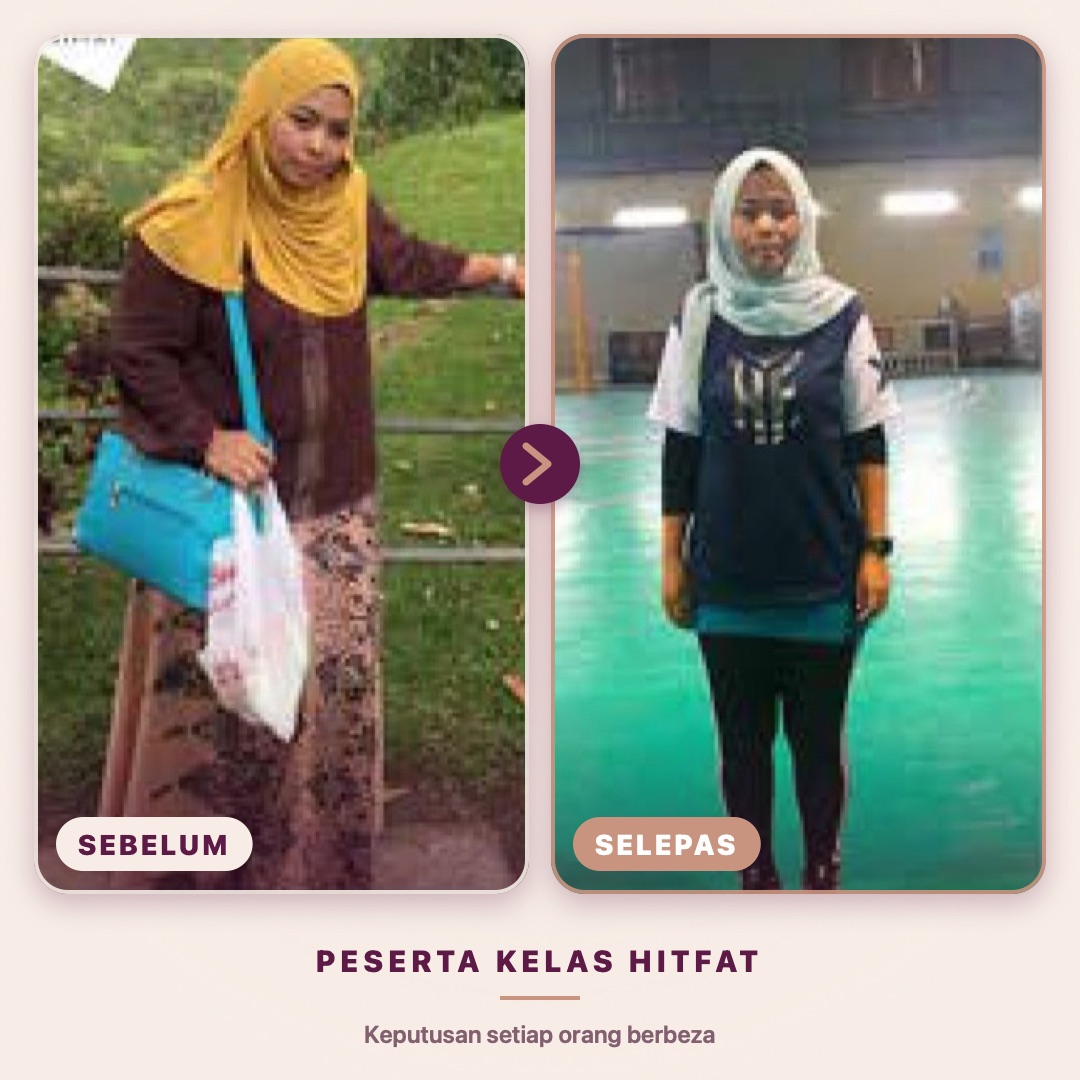
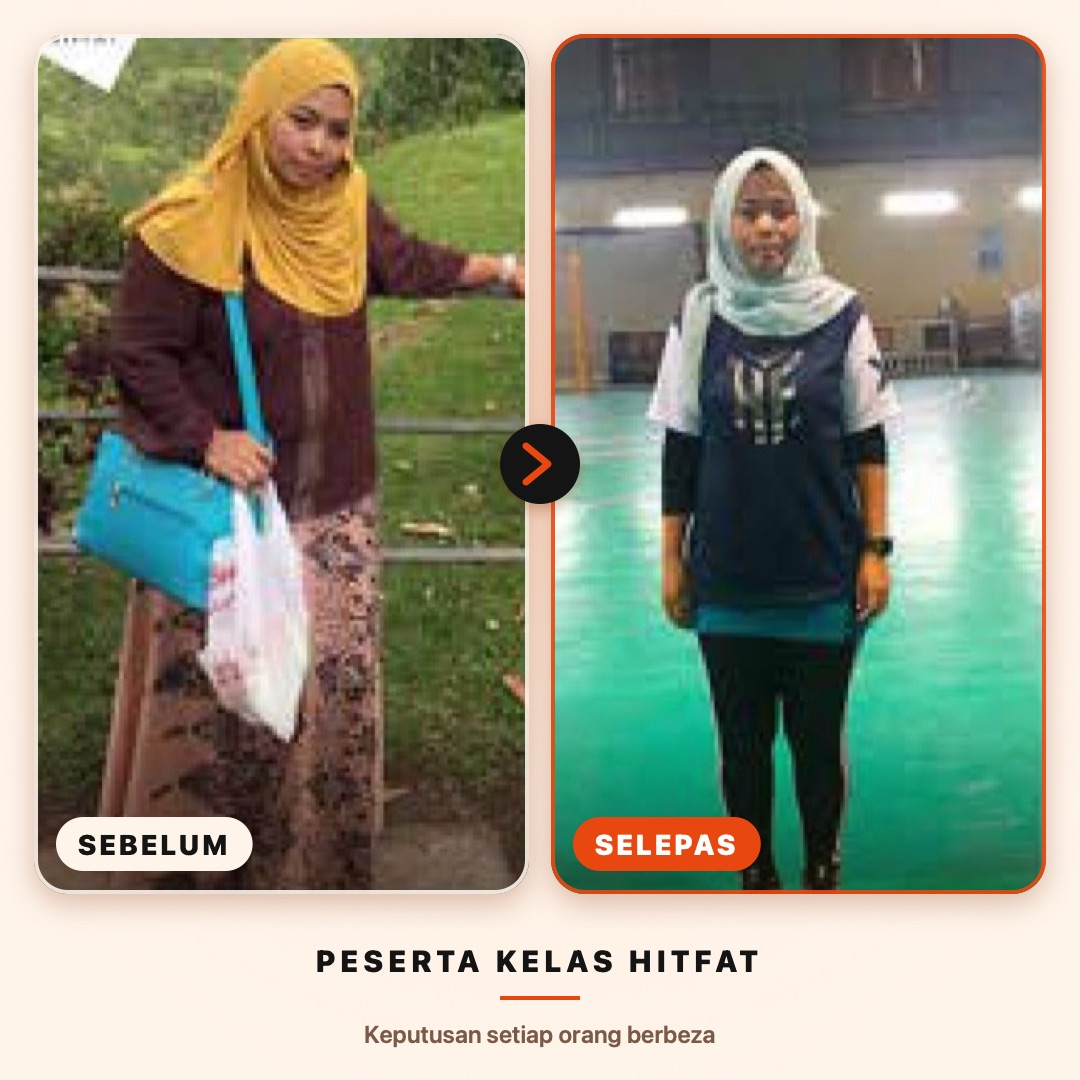
THE START's landing page shows men's results beside the women's: six before/afters and six quotes from Seth's old HITFAT posters, every card in THE START's colours, the same words as the app, and its new features (Seth, 11 Nov: "masukkan testimoni lelaki aku pernah share sebelum ni. wanita tu kekalk

Changed region(s): [[0.275, 0.0611, 0.9472, 0.9778], [0.5194, 0.0306, 0.9778, 0.825], [0.0611, 0.7639, 0.2139, 0.7944]]

diff --git a/start/index.html b/start/index.html
@@ -26,7 +26,7 @@
 
   Honest as MAK2FIT's page is: the numbers are the program's own; the
   reviews are real HITFAT class members, labelled as class members and not
-  THE START users (MAK2FIT's set for now; Seth will send men's); no coach is
+  THE START users (men from Seth's old HITFAT posters, 11 Nov 2026, and MAK2FIT's women); no coach is
   included and the page says so; purchases are final. The phones are the
   app's real screens, the training calendar and the video preview are the
   program's own sessions (Asas path) and clips.
@@ -880,7 +880,7 @@ body{background:var(--bg)}
   <span class="pill">Dibangunkan oleh HITFAT</span>
   <h2 class="sec-h">Dari <span class="grad">gym sebenar.</span></h2>
   <div class="tx-hd"><h3>Peserta sebenar, kelas HITFAT</h3><span>Swipe →</span></div>
-  <div class="tx-row tx-ba"><figure class="tx-c"><div class="tx-im" data-bg="img/testi/ba-hafifah.jpg"></div><figcaption><b>−21 kg</b><span>116 → 95 kg</span><small>Hafifah · Peserta HITFAT</small></figcaption></figure><figure class="tx-c"><div class="tx-im" data-bg="img/testi/ba-31d5.jpg"></div><figcaption><b>−5.4 kg</b><span>75.4 → 70 kg dalam 31 hari</span><small>31 Days Challenge</small></figcaption></figure><figure class="tx-c"><div class="tx-im" data-bg="img/testi/ba-aniza.jpg"></div><figcaption><b>−4.6 kg</b><span>6.6% dalam sebulan</span><small>Aniza · HITFAT Challenge</small></figcaption></figure></div>
+  <div class="tx-row tx-ba"><figure class="tx-c"><div class="tx-im" data-bg="img/testi/ba-m-107.jpg"></div><figcaption><b>−23.5 kg</b><span>107.5 → 84 kg</span><small>Peserta HITFAT</small></figcaption></figure><figure class="tx-c"><div class="tx-im" data-bg="img/testi/ba-hafifah.jpg"></div><figcaption><b>−21 kg</b><span>116 → 95 kg</span><small>Hafifah · Peserta HITFAT</small></figcaption></figure><figure class="tx-c"><div class="tx-im" data-bg="img/testi/ba-m-pdrm12.jpg"></div><figcaption><b>−12 kg</b><span>84 → 72 kg</span><small>HITFAT PDRM · Ogos–Sept 2019</small></figcaption></figure><figure class="tx-c"><div class="tx-im" data-bg="img/testi/ba-31d5.jpg"></div><figcaption><b>−5.4 kg</b><span>75.4 → 70 kg dalam 31 hari</span><small>31 Days Challenge · tempat ke-5</small></figcaption></figure><figure class="tx-c"><div class="tx-im" data-bg="img/testi/ba-m-kb.jpg"></div><figcaption><b>−8.8 kg</b><span>97.6 → 88.8 kg</span><small>HITFATX Kota Bharu</small></figcaption></figure></div>
   <p class="fine">Peserta kelas HITFAT, bukan pengguna THE START. Keputusan setiap orang berbeza. <a href="#testi">Lihat semua testimoni ↓</a></p>
   <div class="laurels l2">
     <div class="lau"><svg viewBox="0 0 34 72" aria-hidden="true"><use href="#laurel"/></svg><div>Sejak 2015<em>Program weight loss</em></div><svg class="r" viewBox="0 0 34 72" aria-hidden="true"><use href="#laurel"/></svg></div>
@@ -923,13 +923,16 @@ body{background:var(--bg)}
 <section class="box c reveal" id="dapat">
   <span class="pill">Apa anda dapat</span>
   <h2 class="sec-h">Satu program. <span class="grad">Semua yang anda perlu.</span></h2>
-  <p class="sec-p">THE START ialah program 6 minggu untuk yang baru mula: latihan berpandu, langkah harian dan ilmu asas, dibina ikut jawapan anda dan diikuti dalam app HITFAT+.</p>
+  <p class="sec-p">THE START ialah program 6 minggu untuk yang baru mula: latihan berpandu, langkah harian, tabiat makan dan ilmu asas, dibina ikut jawapan anda dan diikuti dalam app HITFAT+.</p>
   <div class="get">
     <div class="gi"><i><svg class="ic" aria-hidden="true"><use href="#i-dumb"/></svg></i><p><b>Program latihan 6 minggu</b><span>18 sesi, 3 seminggu, 15 hingga 25 minit. Satu perubahan sahaja setiap minggu.</span></p></div>
     <div class="gi"><i><svg class="ic" aria-hidden="true"><use href="#i-play"/></svg></i><p><b>Video setiap gerakan</b><span>Rakaman coach HITFAT, dengan pemasa, rehat automatik dan isyarat teknik.</span></p></div>
-    <div class="gi"><i><svg class="ic" aria-hidden="true"><use href="#i-check"/></svg></i><p><b>Laluan ikut anda</b><span>Mudah, Asas atau Beransur. Gerakan ditukar jika lutut, bahu atau pinggang tak selesa.</span></p></div>
+    <div class="gi"><i><svg class="ic" aria-hidden="true"><use href="#i-check"/></svg></i><p><b>Tahap ikut anda</b><span>Mudah, Asas atau Beransur. Gerakan ditukar jika lutut, bahu atau pinggang tak selesa.</span></p></div>
     <div class="gi"><i><svg class="ic" aria-hidden="true"><use href="#i-sun"/></svg></i><p><b>Sasaran langkah harian</b><span>Bermula dari tahap anda, naik 1,000 langkah seminggu sampai 7,000.</span></p></div>
     <div class="gi"><i><svg class="ic" aria-hidden="true"><use href="#i-tape"/></svg></i><p><b>Sesi rekod 1 &amp; 18</b><span>Kira duduk-bangun dan tolak dalam 30 saat. Nampak sendiri sejauh mana anda pergi.</span></p></div>
+    <div class="gi bonus"><em>BAHARU</em><i><svg class="ic" aria-hidden="true"><use href="#i-check"/></svg></i><p><b>Semak Teknik AI</b><span>Letak telefon, buat 5 rep. Kamera semak squat dan push up anda, dan Coach Seth beritahu apa nak dibetulkan.</span></p></div>
+    <div class="gi bonus"><em>BAHARU</em><i><svg class="ic" aria-hidden="true"><use href="#i-bowl"/></svg></i><p><b>Satu tabiat makan seminggu</b><span>Idea menu Malaysia setiap hari, pinggan sihat dan sukatan tangan. Tak perlu kira kalori, nasi tetap ada.</span></p></div>
+    <div class="gi bonus"><em>BAHARU</em><i><svg class="ic" aria-hidden="true"><use href="#i-timer"/></svg></i><p><b>Peringatan hari latihan</b><span>Pukul 9 pagi pada hari yang anda pilih: sesi hari ini, berapa minit. Supaya tak terlupa.</span></p></div>
     <div class="gi bonus"><em>BONUS</em><i><svg class="ic" aria-hidden="true"><use href="#i-book"/></svg></i><p><b>Belajar</b><span>Kad teknik setiap corak gerakan, dan 18 pelajaran ringkas tentang latihan dan makan.</span></p></div>
     <div class="gi bonus"><em>BONUS</em><i><svg class="ic" aria-hidden="true"><use href="#i-scan"/></svg></i><p><b>20 scan makanan AI</b><span>Snap pinggan, dapat kalori dan makro dalam beberapa saat.</span></p></div>
     <div class="gi bonus"><em>BONUS</em><i><svg class="ic" aria-hidden="true"><use href="#i-chat"/></svg></i><p><b>BM atau English</b><span>Tukar bahasa program dengan satu tekan.</span></p></div>
@@ -942,7 +945,7 @@ body{background:var(--bg)}
 <section class="box c reveal">
   <span class="pill">Pelan peribadi</span>
   <h2 class="sec-h">Bukan pelan <span class="grad">sama untuk semua.</span></h2>
-  <p class="sec-p">Ada yang tak pernah bersenam, ada yang lutut sakit, ada yang cuma ada 15 minit. Sebab itu laluan dan gerakan anda ikut jawapan anda.</p>
+  <p class="sec-p">Ada yang tak pernah bersenam, ada yang lutut sakit, ada yang cuma ada 15 minit. Sebab itu tahap dan gerakan anda ikut jawapan anda.</p>
   <div class="steps3">
     <div><i>1</i><b>Daftar &amp; bayar</b><span>RM49, sekali sahaja</span></div>
     <div><i>2</i><b>Jawab 9 soalan</b><span>Dalam app, 2 minit</span></div>
@@ -950,7 +953,7 @@ body{background:var(--bg)}
   </div>
   <details class="more"><summary>Lihat apa yang disesuaikan untuk anda</summary>
   <div class="pl2">
-    <div><h3>Laluan anda ikut…</h3><ul>
+    <div><h3>Tahap anda ikut…</h3><ul>
       <li>Kenapa anda mula, dan seberapa aktif anda sekarang</li>
       <li>Pengalaman bersenam: tak pernah, dah lama berhenti, atau pernah ikut program</li>
       <li>Masa anda: 15, 20 atau 25 minit setiap sesi</li>
@@ -959,7 +962,7 @@ body{background:var(--bg)}
       <li>Lutut, bahu atau pinggang yang kurang selesa: gerakannya ditukar</li>
       <li>Sukar turun ke lantai: versi duduk atau berdiri</li>
       <li>Apa yang ada di rumah: kerusi, tuala, botol air</li>
-      <li>Saringan kesihatan: jika ada tanda risiko, laluan kekal Mudah dan app minta anda jumpa doktor dahulu</li></ul></div>
+      <li>Saringan kesihatan: jika ada tanda risiko, tahap kekal Mudah dan app minta anda jumpa doktor dahulu</li></ul></div>
   </div>
   </details>
   <p class="fine">Pelan anda dibina oleh app HITFAT+ secara automatik daripada jawapan anda. Ubah jawapan bila-bila masa, dan pelan dibina semula.</p>
@@ -987,7 +990,7 @@ body{background:var(--bg)}
       <div class="vc-big"><div><b>6</b><span>minggu</span></div><div><b>18</b><span>sesi latihan</span></div><div><b>25</b><span>minit paling lama</span></div></div>
       <div class="vc-h">Minggu 1, sesi demi sesi</div>
       <div class="vc-tiles" id="vc-tiles"><a class="vc-lock" href="#" data-buy="video-more"><img src="https://i.vimeocdn.com/video/2152224383-5b405703135398fbbaedbf2219be3311dd191ec7c0547a5a8e0a9afd0f946453-d_240x427" alt="" loading="lazy"><b>+15</b><span>sesi lagi</span><i aria-hidden="true"></i></a></div>
-      <p class="vc-more">Minggu 1 dua pusingan. Minggu 2 tiga pusingan. Minggu 3 kerja 40 saat, minggu 4 rehat lebih pendek, minggu 5 gerakan naik setahap.</p>
+      <p class="vc-more">Minggu 1 ulang 2 kali. Minggu 2 ulang 3 kali. Minggu 3 buat 40 saat, minggu 4 rehat lebih pendek, minggu 5 gerakan naik setahap.</p>
     </div>
   </div>
   <div style="margin-top:22px"><a class="cta" href="#" data-buy="video">Saya Nak Mula — RM49</a></div>
@@ -997,7 +1000,7 @@ body{background:var(--bg)}
 <section class="box c reveal" id="latihan">
   <span class="pill">Program latihan</span>
   <h2 class="sec-h">6 minggu. <span class="grad">Setiap sesi dirancang.</span></h2>
-  <p class="sec-p">Laluan Asas THE START, sesi demi sesi. App menyesuaikannya ikut jawapan anda: gerakan ditukar jika lutut, bahu atau pinggang tak selesa, dan tempoh ikut masa anda.</p>
+  <p class="sec-p">Tahap Asas THE START, sesi demi sesi. App menyesuaikannya ikut jawapan anda: gerakan ditukar jika lutut, bahu atau pinggang tak selesa, dan tempoh ikut masa anda.</p>
   <div class="tp-stats">
     <div><b>18</b><span>sesi latihan</span></div>
     <div><b>3</b><span>sesi seminggu</span></div>
@@ -1014,7 +1017,7 @@ body{background:var(--bg)}
     <i aria-hidden="true">›</i>
     <div><small>Minggu 3–6</small><b>≈ 20 min</b><span>kerja 40 saat</span></div>
   </div>
-  <p class="tp-note">Satu perubahan seminggu: <b>pusingan → masa kerja → rehat → gerakan</b>. Coraknya sama supaya badan belajar (duduk-bangun, tolak, pinggul, badan), tetapi gerakannya bertukar setiap sesi. Setiap gerakan ada video, pemasa dan rehat.</p>
+  <p class="tp-note">Satu perubahan seminggu: <b>ulangan → masa buat → rehat → gerakan</b>. Coraknya sama supaya badan belajar (duduk-bangun, tolak, pinggul, badan), tetapi gerakannya bertukar setiap sesi. Setiap gerakan ada video, pemasa dan rehat.</p>
   <div style="margin-top:22px"><a class="cta" href="#" data-buy="latihan">Saya Nak Mula — RM49</a></div>
 </section>
 
@@ -1037,7 +1040,7 @@ body{background:var(--bg)}
 </section>
 
 <!-- 10 · REVIEWS: real HITFAT class members, labelled as class members, not THE START users.
-     MAK2FIT's for now; Seth will send men's (11 Nov 2026) -->
+     Men and women (11 Nov 2026, Seth: "masukkan testimoni lelaki ... wanita tu kekalkan"), the cards in THE START's colours -->
 <section class="box c reveal tx" id="testi">
   <span class="pill">Testimoni</span>
   <h2 class="sec-h">Peserta sebenar. <span class="grad">Hasil sebenar.</span></h2>
@@ -1048,9 +1051,9 @@ body{background:var(--bg)}
     <div data-bg="img/testi/k-komuniti-4.jpg" role="img" aria-label="Peserta berlatih battle rope di kelas HITFAT"></div>
   </div>
   <div class="tx-hd"><h3>Sebelum → Selepas</h3><span>Swipe →</span></div>
-  <div class="tx-row tx-ba"><figure class="tx-c"><div class="tx-im" data-bg="img/testi/ba-big.jpg"></div><figcaption><b>−34.3 kg</b><span>98 → 63.7 kg</span><small>Peserta HITFAT · perjalanan jangka panjang</small></figcaption></figure><figure class="tx-c"><div class="tx-im" data-bg="img/testi/ba-hafifah.jpg"></div><figcaption><b>−21 kg</b><span>116 → 95 kg</span><small>Hafifah · Peserta HITFAT</small></figcaption></figure><figure class="tx-c"><div class="tx-im" data-bg="img/testi/ba-aishah.jpg"></div><figcaption><b>−7.8 kg</b><span>70.9 → 63.1 kg</span><small>Peserta HITFAT</small></figcaption></figure><figure class="tx-c"><div class="tx-im" data-bg="img/testi/ba-31d5.jpg"></div><figcaption><b>−5.4 kg</b><span>75.4 → 70 kg dalam 31 hari</span><small>31 Days Challenge · tempat ke-5</small></figcaption></figure><figure class="tx-c"><div class="tx-im" data-bg="img/testi/ba-aniza.jpg"></div><figcaption><b>−4.6 kg</b><span>6.6% dalam sebulan</span><small>Aniza · HITFAT Challenge Okt 2021</small></figcaption></figure><figure class="tx-c"><div class="tx-im" data-bg="img/testi/ba-t42w.jpg"></div><figcaption><b>Wanita · 40-an</b><span>Sebelum → selepas</span><small>Program latihan HITFAT</small></figcaption></figure><figure class="tx-c"><div class="tx-im" data-bg="img/testi/ba-w2.jpg"></div><figcaption><b>Peserta HITFAT</b><span>Sebelum → selepas</span><small>Program latihan HITFAT</small></figcaption></figure></div>
+  <div class="tx-row tx-ba"><figure class="tx-c"><div class="tx-im" data-bg="img/testi/ba-m-107.jpg"></div><figcaption><b>−23.5 kg</b><span>107.5 → 84 kg</span><small>Peserta HITFAT</small></figcaption></figure><figure class="tx-c"><div class="tx-im" data-bg="img/testi/ba-big.jpg"></div><figcaption><b>−34.3 kg</b><span>98 → 63.7 kg</span><small>Peserta HITFAT · perjalanan jangka panjang</small></figcaption></figure><figure class="tx-c"><div class="tx-im" data-bg="img/testi/ba-m-120.jpg"></div><figcaption><b>−17 kg</b><span>120 → 103 kg</span><small>Peserta HITFAT</small></figcaption></figure><figure class="tx-c"><div class="tx-im" data-bg="img/testi/ba-hafifah.jpg"></div><figcaption><b>−21 kg</b><span>116 → 95 kg</span><small>Hafifah · Peserta HITFAT</small></figcaption></figure><figure class="tx-c"><div class="tx-im" data-bg="img/testi/ba-m-107x.jpg"></div><figcaption><b>−19 kg</b><span>107 → 88 kg</span><small>Peserta HITFATX</small></figcaption></figure><figure class="tx-c"><div class="tx-im" data-bg="img/testi/ba-aishah.jpg"></div><figcaption><b>−7.8 kg</b><span>70.9 → 63.1 kg</span><small>Peserta HITFAT</small></figcaption></figure><figure class="tx-c"><div class="tx-im" data-bg="img/testi/ba-m-pdrm12.jpg"></div><figcaption><b>−12 kg</b><span>84 → 72 kg</span><small>HITFAT PDRM · Ogos–Sept 2019</small></figcaption></figure><figure class="tx-c"><div class="tx-im" data-bg="img/testi/ba-31d5.jpg"></div><figcaption><b>−5.4 kg</b><span>75.4 → 70 kg dalam 31 hari</span><small>31 Days Challenge · tempat ke-5</small></figcaption></figure><figure class="tx-c"><div class="tx-im" data-bg="img/testi/ba-m-kb.jpg"></div><figcaption><b>−8.8 kg</b><span>97.6 → 88.8 kg</span><small>HITFATX Kota Bharu</small></figcaption></figure><figure class="tx-c"><div class="tx-im" data-bg="img/testi/ba-aniza.jpg"></div><figcaption><b>−4.6 kg</b><span>6.6% dalam sebulan</span><small>Aniza · HITFAT Challenge Okt 2021</small></figcaption></figure><figure class="tx-c"><div class="tx-im" data-bg="img/testi/ba-m-pdrm7.jpg"></div><figcaption><b>−7 kg</b><span>Hari 1 → hari 10</span><small>HITFAT PDRM</small></figcaption></figure><figure class="tx-c"><div class="tx-im" data-bg="img/testi/ba-t42w.jpg"></div><figcaption><b>Wanita · 40-an</b><span>Sebelum → selepas</span><small>Program latihan HITFAT</small></figcaption></figure><figure class="tx-c"><div class="tx-im" data-bg="img/testi/ba-w2.jpg"></div><figcaption><b>Peserta HITFAT</b><span>Sebelum → selepas</span><small>Program latihan HITFAT</small></figcaption></figure></div>
   <div class="tx-hd"><h3>Kata mereka</h3><span>Swipe →</span></div>
-  <div class="tx-row tx-qs"><div class="tx-q"><p>“Saya suka sangat join HITFAT sebab coach banyak bagi nasihat dan semangat. Saya dapat turunkan berat badan sebanyak 10 kg dalam tempoh 7 minggu.”</p><div class="who"><span data-bg="img/testi/q-shereen.jpg"></span><div><b>Shereen</b><small>Peserta HITFAT Temerloh</small></div></div></div><div class="tx-q"><p>“Alhamdulillah, akhirnya dapat berat ideal kembali. Dulu kerap migrain dan sakit lutut, tapi kini tiada lagi.”</p><div class="who"><span data-bg="img/testi/q-suhana.jpg"></span><div><b>Suhana</b><small>Peserta HITFAT Johor Bahru</small></div></div></div><div class="tx-q"><p>“Dah berjaya turun 8 kg. Saya tak lagi lesu dan selalu mengantuk, dan rasa kebas-kebas kaki dah hilang. Happy bila saiz baju dah bertukar.”</p><div class="who"><span data-bg="img/testi/q-pyka.jpg"></span><div><b>Pyka</b><small>Peserta HITFAT Shah Alam</small></div></div></div><div class="tx-q"><p>“Coach, saya bangga join HITFAT dari 77 kg dan sekarang 70 kg. Rasa berbeza sangat.”</p><div class="who"><span data-bg="img/testi/q-eera.jpg"></span><div><b>Eera Ziman</b><small>Peserta HITFAT Ampang</small></div></div></div><div class="tx-q"><p>“Akhirnya raya haji ni saya dapat pakai baju raya lama. Alhamdulillah.”</p><div class="who"><span data-bg="img/testi/q-izzati.jpg"></span><div><b>Izzati</b><small>Peserta HITFAT Kota Bharu</small></div></div></div><div class="tx-q"><p>“Saya rasa lain sangat, terutama badan dan pergerakan. Baju kurung saya banyak kena alter.”</p><div class="who"><span data-bg="img/testi/q-rara.jpg"></span><div><b>Kak Rara</b><small>Peserta HITFAT Kota Bharu</small></div></div></div><div class="tx-q"><p>“Dari HITFAT, saiz XL ke M. Sukar menurunkan berat badan, jadi mudah dan menyedarkan saya betapa pentingnya kesihatan.”</p><div class="who"><span data-bg="img/testi/q-syud.jpg"></span><div><b>Syud Syuhada</b><small>Peserta HITFAT Kuantan</small></div></div></div><div class="tx-q"><p>“Saya suka HITFAT sebab coach HITFAT semua ada latar belakang Sains Sukan.”</p><div class="who"><span data-bg="img/testi/q-hartini.jpg"></span><div><b>Hartini Baharudin</b><small>Peserta HITFAT Kuantan</small></div></div></div></div>
+  <div class="tx-row tx-qs"><div class="tx-q"><p>“Alhamdulillah. Tekanan darah saya dari paras sempadan (140/80) turun ke normal (125/80). Terima kasih Seth.”</p><div class="who"><span data-bg="img/testi/q-hafizi.jpg"></span><div><b>Cikgu Hafizi</b><small>Peserta HITFAT Kota Bharu</small></div></div></div><div class="tx-q"><p>“Saya suka sangat join HITFAT sebab coach banyak bagi nasihat dan semangat. Saya dapat turunkan berat badan sebanyak 10 kg dalam tempoh 7 minggu.”</p><div class="who"><span data-bg="img/testi/q-shereen.jpg"></span><div><b>Shereen</b><small>Peserta HITFAT Temerloh</small></div></div></div><div class="tx-q"><p>“Tak pernah terfikir jadi peserta paling fit dan menang HITFAT 7.0 Kuantan. Cabaran 2.4 km dalam 12 minit memang gila bagi saya, tapi dengan HITFAT saya mampu buat.”</p><div class="who"><span data-bg="img/testi/q-raden.jpg"></span><div><b>Raden</b><small>Peserta HITFAT Kuantan</small></div></div></div><div class="tx-q"><p>“Alhamdulillah, akhirnya dapat berat ideal kembali. Dulu kerap migrain dan sakit lutut, tapi kini tiada lagi.”</p><div class="who"><span data-bg="img/testi/q-suhana.jpg"></span><div><b>Suhana</b><small>Peserta HITFAT Johor Bahru</small></div></div></div><div class="tx-q"><p>“Terima kasih coach HITFAT yang bantu saya turunkan berat badan. Bermula dari BMI obesiti kelas 2, kini turun ke BMI overweight. InsyaAllah saya teruskan sampai BMI normal.”</p><div class="who"><span data-bg="img/testi/q-zaidan.jpg"></span><div><b>Zaidan Zanuddin</b><small>Peserta HITFAT Kota Bharu</small></div></div></div><div class="tx-q"><p>“Dah berjaya turun 8 kg. Saya tak lagi lesu dan selalu mengantuk, dan rasa kebas-kebas kaki dah hilang. Happy bila saiz baju dah bertukar.”</p><div class="who"><span data-bg="img/testi/q-pyka.jpg"></span><div><b>Pyka</b><small>Peserta HITFAT Shah Alam</small></div></div></div><div class="tx-q"><p>“Saya dah bersama HITFAT selama 5 season, dengan penurunan berat keseluruhan 17 kg. Workout dalam team HITFAT Gombak amat menyeronokkan.”</p><div class="who"><span data-bg="img/testi/q-shahrul.jpg"></span><div><b>Shahrul Nizam</b><small>Peserta HITFAT Gombak</small></div></div></div><div class="tx-q"><p>“Coach, saya bangga join HITFAT dari 77 kg dan sekarang 70 kg. Rasa berbeza sangat.”</p><div class="who"><span data-bg="img/testi/q-eera.jpg"></span><div><b>Eera Ziman</b><small>Peserta HITFAT Ampang</small></div></div></div><div class="tx-q"><p>“Program HITFAT ini mengubah gaya hidup saya. Dengan pemantauan cara makan dan training daripada coach, berat saya turun dari minggu ke minggu.”</p><div class="who"><span data-bg="img/testi/q-azamuddin.jpg"></span><div><b>Azamuddin</b><small>Peserta HITFAT Gombak</small></div></div></div><div class="tx-q"><p>“Akhirnya raya haji ni saya dapat pakai baju raya lama. Alhamdulillah.”</p><div class="who"><span data-bg="img/testi/q-izzati.jpg"></span><div><b>Izzati</b><small>Peserta HITFAT Kota Bharu</small></div></div></div><div class="tx-q"><p>“Kesan sampingan join HITFAT 6 dan HITFAT 7: saya mampu lari half marathon 21 km dua kali dalam 2 minggu, di SCKLM 2016 dan KUMAR 2016.”</p><div class="who"><span data-bg="img/testi/q-amir.jpg"></span><div><b>Amir</b><small>Peserta HITFAT Kuantan</small></div></div></div><div class="tx-q"><p>“Saya rasa lain sangat, terutama badan dan pergerakan. Baju kurung saya banyak kena alter.”</p><div class="who"><span data-bg="img/testi/q-rara.jpg"></span><div><b>Kak Rara</b><small>Peserta HITFAT Kota Bharu</small></div></div></div><div class="tx-q"><p>“Dari HITFAT, saiz XL ke M. Sukar menurunkan berat badan, jadi mudah dan menyedarkan saya betapa pentingnya kesihatan.”</p><div class="who"><span data-bg="img/testi/q-syud.jpg"></span><div><b>Syud Syuhada</b><small>Peserta HITFAT Kuantan</small></div></div></div><div class="tx-q"><p>“Saya suka HITFAT sebab coach HITFAT semua ada latar belakang Sains Sukan.”</p><div class="who"><span data-bg="img/testi/q-hartini.jpg"></span><div><b>Hartini Baharudin</b><small>Peserta HITFAT Kuantan</small></div></div></div></div>
   <p class="fine">Gambar dan kata-kata daripada peserta kelas HITFAT, bukan pengguna THE START. Keputusan setiap orang berbeza, bergantung pada konsistensi, pemakanan, tidur dan kesihatan.</p>
 </section>
 
@@ -1061,7 +1064,7 @@ body{background:var(--bg)}
   <p class="sec-p">Skrin sebenar THE START dalam app HITFAT+, di app.hitfat.io. Tiada muat turun dari App Store.</p>
   <div class="tx-hd"><h3>4 bahagian app</h3></div>
   <div class="feats">
-    <div class="fc g1"><span class="k">1 · PELAN PERIBADI</span><h3>Laluan anda, bukan semua orang</h3><p>Jawab 9 soalan dalam 2 minit: tahap, masa, alat di rumah, dan bahagian badan yang kurang selesa.</p>
+    <div class="fc g1"><span class="k">1 · PELAN PERIBADI</span><h3>Tahap anda, bukan semua orang</h3><p>Jawab 9 soalan dalam 2 minit: tahap, masa, alat di rumah, dan bahagian badan yang kurang selesa.</p>
       <div class="lv" data-lv><div class="lv-ph"><div class="lv-s on" data-bg="img/app-quiz.jpg"></div><div class="lv-s nx" data-bg="img/app-result.jpg"></div><span class="lv-tap" style="left:50%;top:72%"></span></div><span class="lv-chip l"><b>9</b> soalan · 2 minit</span><span class="lv-chip r"><i class="d"></i>Mudah, Asas atau Beransur</span></div></div>
     <div class="fc g2"><span class="k">2 · SESI</span><h3>15–25 minit. Tahu apa nak buat.</h3><p>Setiap sesi ada pemanasan, 4 gerakan utama dan penyejukan. Tekan Mula, dan ikut video.</p>
       <div class="lv" data-lv><div class="lv-ph"><div class="lv-s on" data-bg="img/app-program.jpg"></div><div class="lv-s nx" data-bg="img/app-session.jpg"></div><span class="lv-tap" style="left:50%;top:58%"></span></div><span class="lv-chip l"><b>18</b> sesi berpandu</span><span class="lv-chip r"><i class="d"></i>Video setiap gerakan</span></div></div>
@@ -1171,7 +1174,7 @@ body{background:var(--bg)}
       <li>Mahukan coach peribadi yang pantau setiap hari</li>
       <li>Sedang dalam rawatan atau pemulihan kecederaan</li></ul></div>
   </div>
-  <div class="care">Sebelum mula: kuiz ada saringan kesihatan (sakit dada, pening, masalah jantung atau tekanan darah, mengandung, pembedahan baru). Jika ada, laluan anda kekal Mudah dan app minta anda jumpa doktor atau fisioterapis dahulu. THE START bukan rawatan atau program pemulihan.</div>
+  <div class="care">Sebelum mula: kuiz ada saringan kesihatan (sakit dada, pening, masalah jantung atau tekanan darah, mengandung, pembedahan baru). Jika ada, tahap anda kekal Mudah dan app minta anda jumpa doktor atau fisioterapis dahulu. THE START bukan rawatan atau program pemulihan.</div>
 </section>
 
 <!-- 15 · PRICE -->
@@ -1208,13 +1211,13 @@ body{background:var(--bg)}
   <span class="pill">Soalan lazim</span>
   <h2 class="sec-h">Ada soalan?</h2>
   <div class="faq">
-    <details><summary>Saya betul-betul tak pernah bersenam. Sesuai ke?</summary><p>Sesuai. Itu sebab THE START wujud. Kuiz akan letak anda di laluan Mudah jika perlu, dan minggu pertama cuma dua pusingan: 30 saat kerja, 30 saat rehat. Setiap gerakan ada video. Jika terasa sakit pada sendi, berhenti.</p></details>
+    <details><summary>Saya betul-betul tak pernah bersenam. Sesuai ke?</summary><p>Sesuai. Itu sebab THE START wujud. Kuiz akan letak anda di tahap Mudah jika perlu, dan minggu pertama setiap set gerakan cuma diulang 2 kali: buat 30 saat, rehat 30 saat. Setiap gerakan ada video. Jika terasa sakit pada sendi, berhenti.</p></details>
     <details><summary>Untuk lelaki atau wanita?</summary><p>Kedua-duanya. Gerakan dan pelan yang sama sesuai untuk lelaki dan wanita.</p></details>
     <details><summary>Perlu pergi gym atau beli peralatan?</summary><p>Tak perlu. Semua di rumah, cukup ruang sebesar tikar. Anda cuma perlukan kerusi yang stabil, tuala dan botol air. Tiada tuala? Gerakan tarik boleh dibuat tanpa tuala.</p></details>
     <details><summary>RM49 ni bayar sekali atau bulanan?</summary><p>Sekali sahaja. Tiada langganan, dan program milik anda selamanya. Ulang bila-bila masa.</p></details>
     <details><summary>Berapa lama setiap sesi?</summary><p>15 hingga 25 minit, ikut masa yang anda pilih dalam kuiz. Tiga sesi seminggu, pada hari yang anda pilih.</p></details>
     <details><summary>Lutut atau pinggang saya selalu sakit.</summary><p>Beritahu dalam kuiz. App akan tukar gerakan kepada versi yang lebih selamat untuk bahagian itu. Jika sakit tajam, berhenti dan dapatkan nasihat doktor atau fisioterapi.</p></details>
-    <details><summary>Apa maksud laluan Mudah, Asas dan Beransur?</summary><p>Tiga tahap gerakan untuk corak yang sama. Mudah guna kerusi dan dinding, Asas untuk kebanyakan orang, Beransur untuk yang pernah aktif. App pilih ikut jawapan anda, dan anda boleh tukar.</p></details>
+    <details><summary>Apa maksud tahap Mudah, Asas dan Beransur?</summary><p>Tiga tahap gerakan untuk corak yang sama. Mudah guna kerusi dan dinding, Asas untuk kebanyakan orang, Beransur untuk yang pernah aktif. App pilih ikut jawapan anda, dan anda boleh tukar.</p></details>
     <details><summary>Ada coach personal yang pantau saya?</summary><p>Tidak. THE START ialah program kendiri dalam app: video, pelan sesi, langkah harian dan pelajaran. Untuk masalah akses atau bayaran, WhatsApp kami.</p></details>
     <details><summary>Perlu muat turun app?</summary><p>Tak perlu App Store atau Play Store. HITFAT+ dibuka terus di pelayar telefon, dan anda boleh letak ikonnya di skrin utama.</p></details>
     <details><summary>Macam mana nak akses selepas bayar?</summary><p>Anda nampak halaman pengesahan, kemudian tekan "Buka THE START" dan log masuk dengan Google atau emel yang sama seperti semasa bayar. Jawab 9 soalan, dan Sesi 1 terbuka. Kami juga hantar emel dengan pautan yang sama. Jika bayaran berjaya tetapi program tidak terbuka, WhatsApp kami dengan nombor pesanan.</p></details>
@@ -1471,9 +1474,9 @@ var VC={"Backpack Deadlift": ["1183253123", "2146059298-64097066b2332074537b65b4
 function vcPo(m,sz){ return 'https://i.vimeocdn.com/video/'+VC[m][1]+'-d_'+sz; }
 /* the training calendar: THE START's own 18 sessions, Asas path, from mula.js (mfSession) */
 (function(){
-  var D=[["Duduk-Bangun & Tolak", "rec", 14, 2, ["Chair Squat", "Incline Push Up (Chair)", "Hip Thrust", "Bird Dog"], "Sesi rekod: kira duduk-bangun dan tolak dalam 30 saat pertama. Teknik, pernafasan dan susunan sesi. Dua pusingan.", 30, 30], ["Pinggul & Imbangan", "B", 14, 2, ["Towel Deadlift", "Towel Shoulder Back Pull", "Chair Calf Raises", "Dead Bug"], "Teknik, pernafasan dan susunan sesi. Dua pusingan.", 30, 30], ["Gabung & Stamina", "C", 14, 2, ["Chair Squat Pause", "Incline Wide Push Up", "Towel Rotation Shoulder", "Seated High Knee"], "Teknik, pernafasan dan susunan sesi. Dua pusingan.", 30, 30], ["Kaki & Dada", "A", 18, 3, ["Towel Squat Front Raises", "Towel Shoulder Press", "Towel Glute Bridge", "Towel Side Bend"], "Gerakan sama, satu pusingan lagi.", 30, 30], ["Belakang & Postur", "B", 18, 3, ["Backpack Deadlift", "Towel Upright Row", "Chair Assist Hip Abduction", "Bird Dog"], "Gerakan sama, satu pusingan lagi.", 30, 30], ["Nafas & Rentak", "C", 18, 3, ["Chair Squat", "Incline Push Up (Chair)", "Towel Shoulder Back Pull", "Seated Jack"], "Gerakan sama, satu pusingan lagi.", 30, 30], ["Punggung & Bahu", "A", 20, 3, ["Chair Squat Pause", "Incline Wide Push Up", "Chair Glute Bridge", "Dead Bug"], "Kerja 40 saat, rehat kekal 30. Bezakan penat dengan sakit.", 40, 30], ["Imbangan & Kawalan", "B", 20, 3, ["Towel Deadlift", "Towel Rotation Shoulder", "Chair Kick Back", "Towel Side Bend"], "Kerja 40 saat, rehat kekal 30. Bezakan penat dengan sakit.", 40, 30], ["Litar Penuh", "C", 20, 3, ["Towel Squat Front Raises", "Towel Shoulder Press", "Towel Upright Row", "High Knee Tap Chair"], "Kerja 40 saat, rehat kekal 30. Bezakan penat dengan sakit.", 40, 30], ["Kaki Tegap", "A", 19, 3, ["Chair Squat", "Incline Push Up (Chair)", "Hip Thrust", "Bird Dog"], "Rehat dipendekkan ke 20 saat. Rentak sama.", 40, 20], ["Pinggul Kuat", "B", 19, 3, ["Backpack Deadlift", "Towel Shoulder Back Pull", "Lateral Step Over", "Dead Bug"], "Rehat dipendekkan ke 20 saat. Rentak sama.", 40, 20], ["Stamina Bertambah", "C", 19, 3, ["Chair Squat Pause", "Incline Wide Push Up", "Towel Rotation Shoulder", "Seated High Knee"], "Rehat dipendekkan ke 20 saat. Rentak sama.", 40, 20], ["Naik Setingkat: Kaki & Dada", "A", 19, 3, ["Towel Squat Overhead", "Towel Shoulder Press 2", "Towel Glute Bridge", "Towel Side Bend"], "Masa sama. Beberapa gerakan naik satu tahap.", 40, 20], ["Naik Setingkat: Belakang", "B", 19, 3, ["Towel Deadlift", "Towel Rotation Shoulder", "Chair Calf Raises", "Bird Dog"], "Masa sama. Beberapa gerakan naik satu tahap.", 40, 20], ["Naik Setingkat: Stamina", "C", 19, 3, ["Bodyweight Squat", "Knee Push Ups", "Bottle Bent Over Row", "High Knee Tap Chair"], "Masa sama. Beberapa gerakan naik satu tahap.", 40, 20], ["Kuat Seluruh Badan", "A", 19, 3, ["Squat Pause", "Incline Wide Push Up", "Chair Glute Bridge", "Dead Bug"], "Kekalkan rentak, kemudian semak sejauh mana anda pergi.", 40, 20], ["Berdiri Tegak", "B", 19, 3, ["Backpack Deadlift", "Towel Shoulder Back Pull", "Chair Assist Hip Abduction", "Towel Side Bend"], "Kekalkan rentak, kemudian semak sejauh mana anda pergi.", 40, 20], ["Pusingan Akhir", "rec", 19, 3, ["Chair Squat", "Incline Push Up (Chair)", "Towel Rotation Shoulder", "Butt Kick"], "Sesi rekod: kira duduk-bangun dan tolak dalam 30 saat pertama. Kekalkan rentak, kemudian semak sejauh mana anda pergi.", 40, 20]];
+  var D=[["Duduk-Bangun & Tolak", "rec", 14, 2, ["Chair Squat", "Incline Push Up (Chair)", "Hip Thrust", "Bird Dog"], "Sesi rekod: kira duduk-bangun dan tolak dalam 30 saat pertama. Teknik, pernafasan dan cara sesi berjalan. Setiap set gerakan dibuat 2 kali.", 30, 30], ["Pinggul & Imbangan", "B", 14, 2, ["Towel Deadlift", "Towel Shoulder Back Pull", "Chair Calf Raises", "Dead Bug"], "Teknik, pernafasan dan cara sesi berjalan. Setiap set gerakan dibuat 2 kali.", 30, 30], ["Gabung & Stamina", "C", 14, 2, ["Chair Squat Pause", "Incline Wide Push Up", "Towel Rotation Shoulder", "Seated High Knee"], "Teknik, pernafasan dan cara sesi berjalan. Setiap set gerakan dibuat 2 kali.", 30, 30], ["Kaki & Dada", "A", 18, 3, ["Towel Squat Front Raises", "Towel Shoulder Press", "Towel Glute Bridge", "Towel Side Bend"], "Gerakan sama, ulang satu kali lagi.", 30, 30], ["Belakang & Postur", "B", 18, 3, ["Backpack Deadlift", "Towel Upright Row", "Chair Assist Hip Abduction", "Bird Dog"], "Gerakan sama, ulang satu kali lagi.", 30, 30], ["Nafas & Rentak", "C", 18, 3, ["Chair Squat", "Incline Push Up (Chair)", "Towel Shoulder Back Pull", "Seated Jack"], "Gerakan sama, ulang satu kali lagi.", 30, 30], ["Punggung & Bahu", "A", 20, 3, ["Chair Squat Pause", "Incline Wide Push Up", "Chair Glute Bridge", "Dead Bug"], "Buat 40 saat, rehat masih 30 saat. Kenal beza penat dengan sakit.", 40, 30], ["Imbangan & Kawalan", "B", 20, 3, ["Towel Deadlift", "Towel Rotation Shoulder", "Chair Kick Back", "Towel Side Bend"], "Buat 40 saat, rehat masih 30 saat. Kenal beza penat dengan sakit.", 40, 30], ["Litar Penuh", "C", 20, 3, ["Towel Squat Front Raises", "Towel Shoulder Press", "Towel Upright Row", "High Knee Tap Chair"], "Buat 40 saat, rehat masih 30 saat. Kenal beza penat dengan sakit.", 40, 30], ["Kaki Tegap", "A", 19, 3, ["Chair Squat", "Incline Push Up (Chair)", "Hip Thrust", "Bird Dog"], "Rehat dipendekkan ke 20 saat. Rentak sama.", 40, 20], ["Pinggul Kuat", "B", 19, 3, ["Backpack Deadlift", "Towel Shoulder Back Pull", "Lateral Step Over", "Dead Bug"], "Rehat dipendekkan ke 20 saat. Rentak sama.", 40, 20], ["Stamina Bertambah", "C", 19, 3, ["Chair Squat Pause", "Incline Wide Push Up", "Towel Rotation Shoulder", "Seated High Knee"], "Rehat dipendekkan ke 20 saat. Rentak sama.", 40, 20], ["Naik Setingkat: Kaki & Dada", "A", 19, 3, ["Towel Squat Overhead", "Towel Shoulder Press 2", "Towel Glute Bridge", "Towel Side Bend"], "Masa sama. Beberapa gerakan naik satu tahap.", 40, 20], ["Naik Setingkat: Belakang", "B", 19, 3, ["Towel Deadlift", "Towel Rotation Shoulder", "Chair Calf Raises", "Bird Dog"], "Masa sama. Beberapa gerakan naik satu tahap.", 40, 20], ["Naik Setingkat: Stamina", "C", 19, 3, ["Bodyweight Squat", "Knee Push Ups", "Bottle Bent Over Row", "High Knee Tap Chair"], "Masa sama. Beberapa gerakan naik satu tahap.", 40, 20], ["Kuat Seluruh Badan", "A", 19, 3, ["Squat Pause", "Incline Wide Push Up", "Chair Glute Bridge", "Dead Bug"], "Kekalkan rentak, kemudian semak sejauh mana anda pergi.", 40, 20], ["Berdiri Tegak", "B", 19, 3, ["Backpack Deadlift", "Towel Shoulder Back Pull", "Chair Assist Hip Abduction", "Towel Side Bend"], "Kekalkan rentak, kemudian semak sejauh mana anda pergi.", 40, 20], ["Pusingan Akhir", "rec", 19, 3, ["Chair Squat", "Incline Push Up (Chair)", "Towel Rotation Shoulder", "Butt Kick"], "Sesi rekod: kira duduk-bangun dan tolak dalam 30 saat pertama. Kekalkan rentak, kemudian semak sejauh mana anda pergi.", 40, 20]];
   window.LBD=D;
-  var WK=[['Kenal Asas','Minggu 1',1,3],['Ulang Rutin','Minggu 2',4,6],['Lebih Lama','Minggu 3',7,9],['Rehat Pendek','Minggu 4',10,12],['Naik Tahap','Minggu 5',13,15],['Semak & Sambung','Minggu 6',16,18]];
+  var WK=[['Belajar Gerakan','Minggu 1',1,3],['Tambah Satu Kali','Minggu 2',4,6],['Lebih Lama','Minggu 3',7,9],['Rehat Pendek','Minggu 4',10,12],['Naik Tahap','Minggu 5',13,15],['Semak & Sambung','Minggu 6',16,18]];
   var T={A:['Duduk-bangun & tolak','#E8480F'],B:['Pinggul & imbangan','#FFB27A'],C:['Gabung & stamina','#FF7A35'],rec:['Sesi rekod','#9A2E08']};
   function ty(d){ return d[1]; }
   var esc=function(t){ return String(t).replace(/[&<>"]/g,function(c){ return {'&':'&amp;','<':'&lt;','>':'&gt;','"':'&quot;'}[c]; }); };
@@ -1489,7 +1492,7 @@ function vcPo(m,sz){ return 'https://i.vimeocdn.com/video/'+VC[m][1]+'-d_'+sz; }
     box.classList.add('fade');
     setTimeout(function(){
       box.innerHTML='<div class="h" style="color:'+T[k][1]+'"><i style="background:'+T[k][1]+'"></i>Sesi '+i+' · '+w[1]+' · '+w[0]+' · '+T[k][0]+'</div>'+
-        '<h3>'+esc(d[0])+'</h3><div class="f"><span>⏱ '+d[2]+' minit</span><span>'+d[3]+' pusingan</span><span>'+d[4].length+' gerakan</span><span>kerja '+d[6]+' s · rehat '+d[7]+' s</span></div>'+
+        '<h3>'+esc(d[0])+'</h3><div class="f"><span>⏱ '+d[2]+' minit</span><span>ulang '+d[3]+' kali</span><span>'+d[4].length+' gerakan</span><span>buat '+d[6]+' s · rehat '+d[7]+' s</span></div>'+
         '<ol>'+d[4].map(function(m){ return '<li>'+(VC[m]?'<img src="'+vcPo(m,'96x170')+'" alt="" loading="lazy">':'')+esc(m)+'</li>'; }).join('')+'</ol>'+
         '<q><b>Minggu ini</b>'+esc(d[5])+'</q>';
       box.classList.remove('fade'); },180); }
@@ -1535,7 +1538,7 @@ function vcPo(m,sz){ return 'https://i.vimeocdn.com/video/'+VC[m][1]+'-d_'+sz; }
     a.classList.add('cur'); b.classList.remove('cur');
     $('vc-name').textContent=m;
     $('vc-n').textContent=(i+1)+' / '+list.length;
-    $('vc-next').textContent=i<list.length-1?'Seterusnya: '+list[i+1]:'Gerakan terakhir pusingan ini';
+    $('vc-next').textContent=i<list.length-1?'Seterusnya: '+list[i+1]:'Gerakan terakhir ulangan ini';
     [].forEach.call(seg.children,function(s,n){ s.firstChild.style.width=n<i?'100%':'0'; });
     /* the next move loads behind this one */
     var nx=next(); if(nx!==m) setTimeout(function(){ if(list[i]===m) load(fr[1-cur],nx); },1500);
